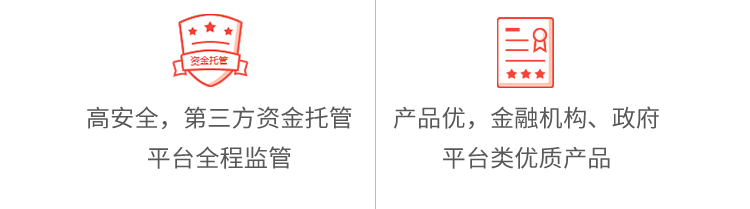
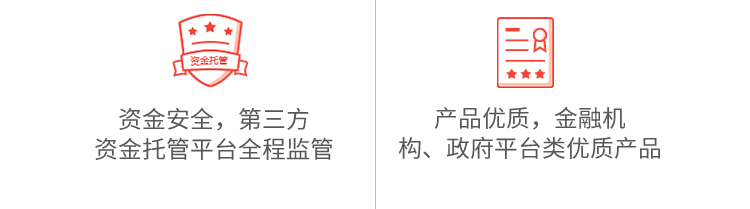
修改前端样式
Summary: 修改前端样式

Test Plan: 修改前端样式

Reviewers: modi

Differential Revision: http://dx.wangcaigu.cn/D806

diff --git a/wap/web/css/invite/activedisplay.css b/wap/web/css/invite/activedisplay.css
@@ -149,7 +149,14 @@ a, a:hover {
 .back-fff {
     width: 100%;
     background-color: #fff;
-    padding: 0.5rem 0 3.5rem;
+    padding: 0.5rem 0 2rem;
+}
+
+.danger-tip {
+    background-color: #fff;
+    text-align: center;
+    font-size: 1.4rem;
+    padding-bottom: 2rem;
 }
 
 .fixed-float {
@@ -366,6 +373,7 @@ a, a:hover {
     color: #d55247;
     background-color: #fbdfaf;
 }
+
 .transform-front-box .transform-start {
     transform-style: preserve-3d;
     -webkit-transform-style: preserve-3d;
@@ -380,7 +388,8 @@ a, a:hover {
     .transform-front-box .logo-back {
         padding: 3.2rem 0 2.3rem;
     }
-    .transform-front-box .front-font{
+
+    .transform-front-box .front-font {
         padding-bottom: 1.2rem;
     }
 }
@@ -438,6 +447,7 @@ a, a:hover {
         margin-bottom: 3rem;
     }
 }
+
 @media (min-width: 501px) {
     .transform-front-box .logo-back {
         padding: 3.2rem 0 1.3rem;

diff --git a/wap/web/css/luodiye/luodiye.css b/wap/web/css/luodiye/luodiye.css
@@ -71,9 +71,9 @@ a, a:hover {
     text-align: center;
 }
 
-.password-box a{
+.password-box a {
     position: relative;
-    top:0.8rem;
+    top: 0.8rem;
 }
 
 .register-box .agreement {
@@ -259,12 +259,18 @@ a, a:hover {
     height: 3rem;
     line-height: 3rem;
     font-size: 1.6rem;
-    margin: 0.5rem auto 3.5rem;
+    margin: 0.5rem auto 2rem;
     text-align: center;
     border-radius: 5px;
     letter-spacing: 2px;
     color: #fff;
     background-color: #f44336;
+}
+
+.danger-tip {
+    text-align: center;
+    font-size: 1.4rem;
+    padding-bottom: 2rem;
 }
 
 .fixed-float {
@@ -357,7 +363,8 @@ a, a:hover {
     .fixed-content {
         font-size: 1.4rem;
     }
-    .register-box .text-box .get-phonecode{
+
+    .register-box .text-box .get-phonecode {
         font-size: 1.6rem;
     }
 }
@@ -369,4 +376,3 @@ a, a:hover {
 .licai-img img {
     width: 100%;
 }
-

diff --git a/frontend/web/css/luodiye/luodiye.css b/frontend/web/css/luodiye/luodiye.css
@@ -398,8 +398,9 @@ input {
 }
 
 .content-choose .choose-first p, .content-choose .choose-second p {
+    padding-top: 17px;
     text-align: center;
-    line-height: 65px;
+    line-height: 20px;
 }
 
 .content-choose .choose-third, .content-choose .choose-fourth {

diff --git a/wap/views/luodiye/luodiye.php b/wap/views/luodiye/luodiye.php
@@ -7,9 +7,9 @@ $this->title = "温州报业传媒旗下理财平台";
 $this->params['breadcrumbs'][] = $this->title;
 $this->header_nav_on = true;
 
-$this->registerCssFile(ASSETS_BASE_URI.'css/first.css', ['depends' => 'wap\assets\WapAsset']);
-$this->registerCssFile(ASSETS_BASE_URI.'css/luodiye/luodiye.css?v=160802', ['depends' => 'wap\assets\WapAsset']);
-$this->registerJsFile(ASSETS_BASE_URI.'js/fastclick.js', ['depends' => 'wap\assets\WapAsset']);
+$this->registerCssFile(ASSETS_BASE_URI . 'css/first.css', ['depends' => 'wap\assets\WapAsset']);
+$this->registerCssFile(ASSETS_BASE_URI . 'css/luodiye/luodiye.css?v=160802', ['depends' => 'wap\assets\WapAsset']);
+$this->registerJsFile(ASSETS_BASE_URI . 'js/fastclick.js', ['depends' => 'wap\assets\WapAsset']);
 ?>
 <div class="row banner-box">
     <div class="col-xs-12">
@@ -26,7 +26,7 @@ $this->registerJsFile(ASSETS_BASE_URI.'js/fastclick.js', ['depends' => 'wap\asse
     </div>
     <div class="text-box">
         <input id="captchaform-captchacode" class="login-info text-single" type="text" name="SignupForm[captchaCode]" maxlength="4" placeholder="请输入图形验证码" AUTOCOMPLETE="off">
-        <?= $form->field($captcha, 'captchaCode',['template' => '{input}'])->label(false)->widget(Captcha::className(), ['template' => '{image}', 'imageOptions'=>['class'=>'varify-img'], 'captchaAction' => '/site/captcha']) ?>
+        <?= $form->field($captcha, 'captchaCode', ['template' => '{input}'])->label(false)->widget(Captcha::className(), ['template' => '{image}', 'imageOptions' => ['class' => 'varify-img'], 'captchaAction' => '/site/captcha']) ?>
         <div class="clear"></div>
     </div>
     <div class="text-box">
@@ -37,9 +37,9 @@ $this->registerJsFile(ASSETS_BASE_URI.'js/fastclick.js', ['depends' => 'wap\asse
     <div class="text-box password-box">
         <input id="pass" class="login-info text-single" name="SignupForm[password]" maxlength="20" type="password" placeholder="请输入6到20位的密码" AUTOCOMPLETE="off">
         <a class="eye-choose login-eye">
-			<img width="26" height="20" alt="eye-close" src="<?= ASSETS_BASE_URI ?>images/eye-close.png">
-		</a>
-		<div class="clear"></div>
+            <img width="26" height="20" alt="eye-close" src="<?= ASSETS_BASE_URI ?>images/eye-close.png">
+        </a>
+        <div class="clear"></div>
     </div>
     <div class="agreement">
         <table>
@@ -57,7 +57,7 @@ $this->registerJsFile(ASSETS_BASE_URI.'js/fastclick.js', ['depends' => 'wap\asse
 <?php $form->end(); ?>
 <div class="row description-box">
     <p class="description-header"><span>什么是温都金服？</span></p>
-    <p class="description-content">温州温都金融信息服务股份有限公司简称“温都金服”，隶属温州报业传媒旗下的理财平台。甄选各类金融机构、优质企业理财产品。提供银行级安全理财服务，保障用户资金安全，安享稳健高收益。</p>
+    <p class="description-content">温州温都金融信息服务股份有限公司简称“温都金服”，隶属温州报业传媒旗下的理财平台。甄选各类金融机构、优质企业理财产品。提供银行级理财服务，保障用户资金安全，安享稳健高收益。</p>
 </div>
 <div class="row production-box">
     <p class="production-header">精品理财</p>
@@ -78,12 +78,12 @@ $this->registerJsFile(ASSETS_BASE_URI.'js/fastclick.js', ['depends' => 'wap\asse
 <div class="row choose-box">
     <h3>为什么选择温都金服？</h3>
     <div class="choose-content">
-		<img src="<?= ASSETS_BASE_URI ?>images/luodiye/choose-top.png" alt="">
-		<img src="<?= ASSETS_BASE_URI ?>images/luodiye/choose-bottom.png" alt="">
+        <img src="<?= ASSETS_BASE_URI ?>images/luodiye/choose-top.png" alt="">
+        <img src="<?= ASSETS_BASE_URI ?>images/luodiye/choose-bottom.png" alt="">
     </div>
 </div>
 <a class="link-last" href="/deal/deal/index/">立即赚钱</a>
-
+<p class="danger-tip">理财非存款，产品有风险，投资须谨慎</p>
 <div class="fixed-float">
     <img src="<?= ASSETS_BASE_URI ?>images/luodiye/fixed-float.png" alt="">
 </div>
@@ -105,8 +105,7 @@ $this->registerJsFile(ASSETS_BASE_URI.'js/fastclick.js', ['depends' => 'wap\asse
     </div>
 </div>
 <script>
-    function validateForm()
-    {
+    function validateForm() {
         if ($('#iphone').val() === '') {
             toast('手机号不能为空');
             return false;
@@ -164,8 +163,7 @@ $this->registerJsFile(ASSETS_BASE_URI.'js/fastclick.js', ['depends' => 'wap\asse
         return true;
     }
 
-    function signup()
-    {
+    function signup() {
         var $form = $('#signup_form');
         $('#signup-btn').attr('disabled', true);
 
@@ -174,20 +172,20 @@ $this->registerJsFile(ASSETS_BASE_URI.'js/fastclick.js', ['depends' => 'wap\asse
             $form.serialize()
         );
 
-        xhr.done(function(data) {
+        xhr.done(function (data) {
             if (data.code) {
                 if ('undefined' !== typeof data.tourl) {
-                    toast(data.message, function() {
+                    toast(data.message, function () {
                         if ('undefined' !== typeof ga) {
                             ga('send', {
                                 hitType: 'event',
                                 eventCategory: 'reg',
                                 eventAction: 'm',
-                                hitCallback: function() {
+                                hitCallback: function () {
                                     location.href = data.tourl;
                                 }
                             });
-                            setTimeout(function() {
+                            setTimeout(function () {
                                 location.href = data.tourl;
                             }, 1500);
                         } else {
@@ -201,7 +199,7 @@ $this->registerJsFile(ASSETS_BASE_URI.'js/fastclick.js', ['depends' => 'wap\asse
             $('#signup-btn').attr('disabled', false);
         });
 
-        xhr.fail(function() {
+        xhr.fail(function () {
             $('#signup-btn').attr('disabled', false);
         });
     }
@@ -223,7 +221,7 @@ $this->registerJsFile(ASSETS_BASE_URI.'js/fastclick.js', ['depends' => 'wap\asse
         });
 
         /* 提交表单 */
-        $('#signup_form').submit(function(e) {
+        $('#signup_form').submit(function (e) {
             e.preventDefault();
 
             if (!validateForm()) {
@@ -266,14 +264,12 @@ $this->registerJsFile(ASSETS_BASE_URI.'js/fastclick.js', ['depends' => 'wap\asse
                 toast('图形验证码必须为4位字符');
                 return false;
             }
-            createSms("#iphone", 1, "#captchaform-captchacode", function ()
-            {
+            createSms("#iphone", 1, "#captchaform-captchacode", function () {
                 fun_timedown();
             });
         });
 
-        function SetRemainTime()
-        {
+        function SetRemainTime() {
             if (curCount === 0) {
                 window.clearInterval(InterValObj);//停止计时器
                 $('#yzm').removeAttr("disabled");//启用按钮
@@ -285,8 +281,7 @@ $this->registerJsFile(ASSETS_BASE_URI.'js/fastclick.js', ['depends' => 'wap\asse
             }
         }
 
-        function fun_timedown()
-        {
+        function fun_timedown() {
             curCount = count;
             $('#yzm').addClass("yzm-disabled");
             $("#yzm").attr("disabled", "true");

diff --git a/frontend/views/luodiye/luodiye.php b/frontend/views/luodiye/luodiye.php
@@ -2,7 +2,7 @@
 
 $this->title = '温州报业传媒旗下理财平台';
 
-$this->registerCssFile(ASSETS_BASE_URI.'css/luodiye/luodiye.css?v=160802', ['depends' => 'frontend\assets\FrontAsset']);
+$this->registerCssFile(ASSETS_BASE_URI.'css/luodiye/luodiye.css?v=160805', ['depends' => 'frontend\assets\FrontAsset']);
 $this->registerJsFile(ASSETS_BASE_URI.'js/JPlaceholder.js', ['depends' => 'frontend\assets\FrontAsset']);
 $this->registerJsFile(ASSETS_BASE_URI.'js/register/register.js', ['depends' => 'frontend\assets\FrontAsset']);
 
@@ -63,7 +63,7 @@ use yii\captcha\Captcha;
 <div class="container-fluid">
     <div class="container-content content-why">
         <h3>什么是温都金服？</h3>
-        <p>温州温都金融信息服务股份有限公司简称“温都金服”，隶属温州报业传媒旗下的理财平台。甄选各类金融机构、优质企业理财产品。提供银行级安全理财服务，保障用户资金安全，安享稳健高收益。</p>
+        <p>温州温都金融信息服务股份有限公司简称“温都金服”，隶属温州报业传媒旗下的理财平台。甄选各类金融机构、优质企业理财产品。提供银行级理财服务，保障用户资金安全，安享稳健高收益。</p>
     </div>
 </div>
 <div class="container-fluid container-fluid-because">
@@ -114,25 +114,28 @@ use yii\captcha\Captcha;
         <div class="content-choose">
             <div class="choose-single choose-first">
                 <div class="single-back"></div>
-                <p>稳收益，年化收益5.5~9%</p>
+                <p>收益稳健，</p>
+                <p>预期年化收益5.5~9%</p>
             </div>
             <div class="choose-single choose-second">
                 <div class="single-back"></div>
-                <p>低门槛，1000元即可投资</p>
+                <p>门槛较低，</p>
+                <p>1000元即可投资</p>
             </div>
 
             <div class="choose-single choose-third">
                 <div class="single-back"></div>
-                <p>低门槛，1000元即可投资</p>
-                <p>平台全程监管</p>
+                <p>资金安全，第三方</p>
+                <p>资金托管平台全程监管</p>
             </div>
 
             <div class="choose-single choose-fourth">
                 <div class="single-back"></div>
-                <p>产品优，金融机构、政府</p>
-                <p>平台类优质产品</p>
+                <p>产品优质，金融机</p>
+                <p>构、政府平台类优质产品</p>
             </div>
         </div>
-        <a class="link-last" href="/licai/">立即赚钱</a>
+        <a class="link-last" href="/licai/">立即赚钱</a><br>
+        <center><p>理财非存款，产品有风险，投资须谨慎</p></center>
     </div>
 </div>

diff --git a/wap/views/luodiye/invite.php b/wap/views/luodiye/invite.php
@@ -5,7 +5,7 @@ $this->params['breadcrumbs'][] = $this->title;
 $this->header_nav_on = true;
 
 $this->registerCssFile(ASSETS_BASE_URI.'css/first.css', ['depends' => 'wap\assets\WapAsset']);
-$this->registerCssFile(ASSETS_BASE_URI.'css/invite/activedisplay.css', ['depends' => 'wap\assets\WapAsset']);
+$this->registerCssFile(ASSETS_BASE_URI.'css/invite/activedisplay.css?v=20160805', ['depends' => 'wap\assets\WapAsset']);
 $this->registerJsFile(ASSETS_BASE_URI.'js/fastclick.js', ['depends' => 'wap\assets\WapAsset']);
 $this->registerJsFile(ASSETS_BASE_URI.'js/invite/activedisplay.js', ['depends' => 'wap\assets\WapAsset']);
 
@@ -42,7 +42,7 @@ $this->registerJsFile(ASSETS_BASE_URI.'js/invite/activedisplay.js', ['depends' =
 </div>
 <div class="row description-box">
     <p class="description-header"><span>什么是温都金服？</span></p>
-    <p class="description-content">温州温都金融信息服务股份有限公司简称“温都金服”，隶属温州报业传媒旗下的理财平台。甄选各类金融机构、优质企业理财产品。提供银行级安全理财服务，保障用户资金安全，安享稳健高收益。</p>
+    <p class="description-content">温州温都金融信息服务股份有限公司简称“温都金服”，隶属温州报业传媒旗下的理财平台。甄选各类金融机构、优质企业理财产品。提供银行级理财服务，保障用户资金安全，安享稳健高收益。</p>
 </div>
 <div class="row production-box">
     <p class="production-header">精品理财</p>
@@ -70,6 +70,7 @@ $this->registerJsFile(ASSETS_BASE_URI.'js/invite/activedisplay.js', ['depends' =
 <div class="back-fff">
     <a class="link-last" href="/deal/deal/index/">立即赚钱</a>
 </div>
+<p class="danger-tip">理财非存款，产品有风险，投资须谨慎</p>
 <div class="fixed-float">
     <img src="<?= ASSETS_BASE_URI ?>images/luodiye/fixed-float.png" alt="">
 </div>
